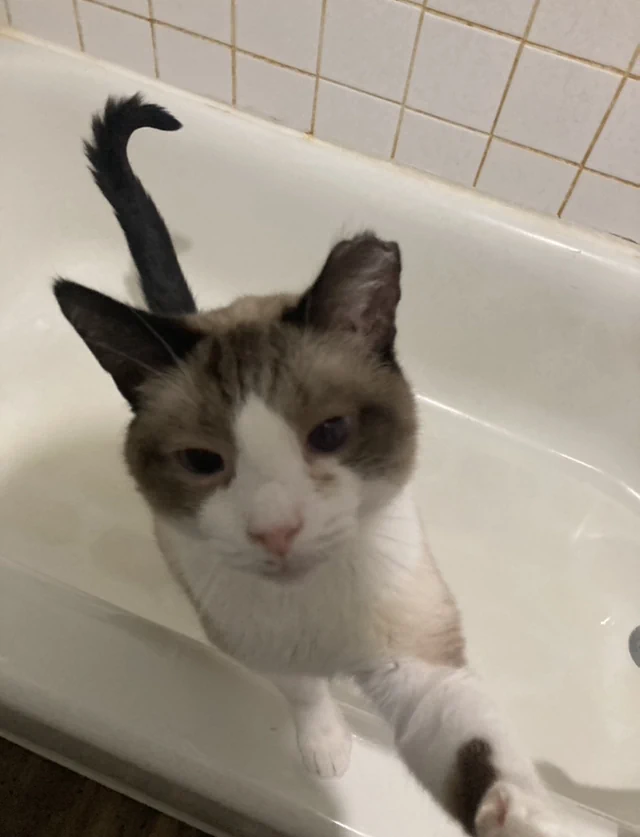
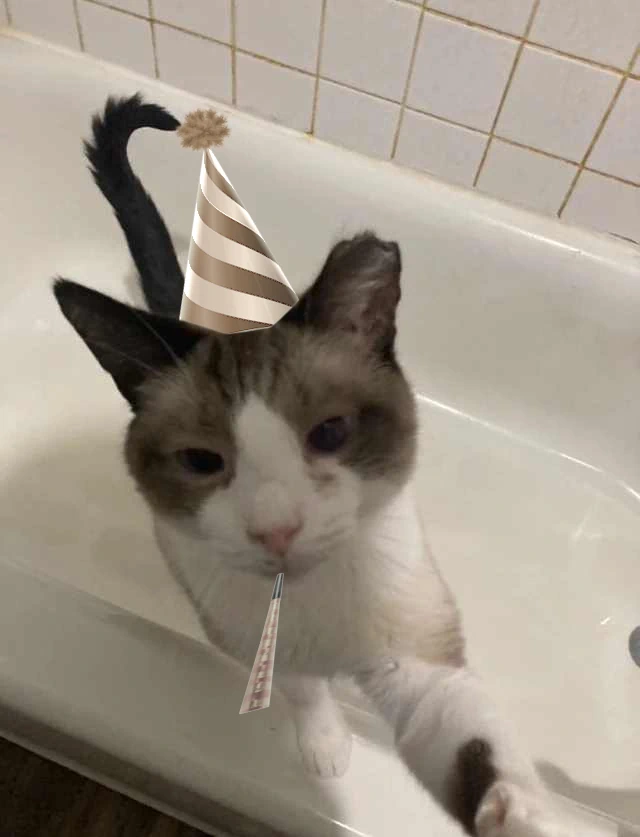
Birthday

Changed region(s): [[0.2812, 0.1243, 0.4688, 0.4038], [0.375, 0.6834, 0.4375, 0.8698]]

diff --git a/billy/index.html b/billy/index.html
@@ -25,6 +25,14 @@
 <body data-soggy-pagetype="vtilt-js">
 	<div class="gradient-background"></div>
     <img id="soggycat" src="/assets/images/billy.webp" data-tilt data-tilt-scale="1.05" alt="a picture of BILLY??">
+	<img class="btext1" src="/assets/images/birthdayboy.webp" width="1047" height="536"/>
+	<img class="btext2" src="/assets/images/cooltextboy.gif" width="912" height="91"/>
+	<div class="btext3">
+		<img style="pointer-events: none; width: 100%; height:auto;" src="/assets/images/willy.webp" width="480" height="270"/>
+		<p>happy birthday to <a href="https://x.com/zoingalorb">zane</a>, who isn't billy but who is rather his owner! I DONT CARE!!! I EDITED THE PAGE ANYWAYS!!!!! WOW WOW WOW!!!!!!</p>
+	</div>
+
+
 
 	<div id="sidemenu" class="sm sm-closed" inert>
 		<a aria-label="code" href="/github" target="GithubTarget">
@@ -54,9 +62,10 @@
     <span id='player' style='display: none'></span>
     <input type="file" id="picker" style="display: none" accept="image/*" />
 
-	<script src="/static/soggycat/main.js"></script>
+	<!--this is why i don't want to work on this website-->
+	<script src="/assets/static/soggycat/main.js"></script>
 
-	<script src='/static/other/vanillatilt.js'></script>
-	<script src="/static/other/color-thief.umd.js"></script>
+	<script src='/assets/static/other/vanillatilt.js'></script>
+	<script src="/assets/static/other/color-thief.umd.js"></script>
 </body>
 </html>

diff --git a/billy/billy.css b/billy/billy.css
@@ -5,3 +5,45 @@ body {
 .gradient-background {
     background: radial-gradient(circle, rgb(28,15,7) 20%, rgb(198,177,146) 100%);
 }
+
+.btext1 {
+    z-index: 1;
+    position: absolute;
+    margin-left: auto;
+    margin-right: auto;
+    width: 50em;
+    height: auto;
+    left: 0;
+    right: 0;
+    top: 0;
+    pointer-events: none;
+}
+
+.btext2 {
+    z-index: 1;
+    position: absolute;
+    margin-left: auto;
+    margin-right: auto;
+    width: 80em;
+    height: auto;
+    left: 0;
+    right: 0;
+    bottom: 0;
+    pointer-events: none;
+}
+
+.btext3 {
+    display: flex;
+    flex-direction: column;
+    font-family: 'Spline Sans Mono', monospace;
+    color: white;
+    text-shadow: 0 5px 12px black;
+    position: absolute;
+    margin-right: auto;
+    margin-top: auto;
+    margin-bottom: auto;
+    width: 30%;
+    height: 50%;
+    left: 2%;
+    right: 0;
+}

diff --git a/index.html b/index.html
@@ -25,6 +25,13 @@
 	<img id="soggycat" src="/assets/images/soggycat.webp" data-tilt data-tilt-scale="1.05" alt="a picture of a wet cat inside a bathtub.">
 
 	<div id="sidemenu" class="sm sm-closed" inert>
+		<a aria-label="birthday" href="/billy" target="BillyTarget">
+			<div class = "sm-button">
+				<img src="/assets/svgs/weirdattribution.svg">
+				<p>birthday boy</p>
+			</div>
+		</a>
+
 		<a aria-label="code" href="/github" target="GithubTarget">
 			<div class = "sm-button">
 				<img src="/assets/svgs/code.svg">
